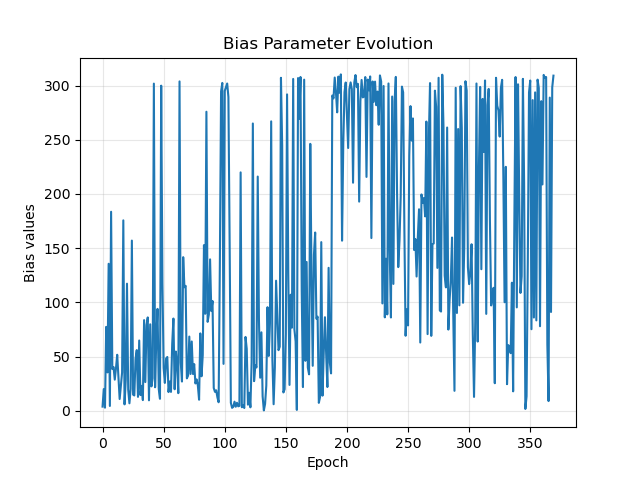
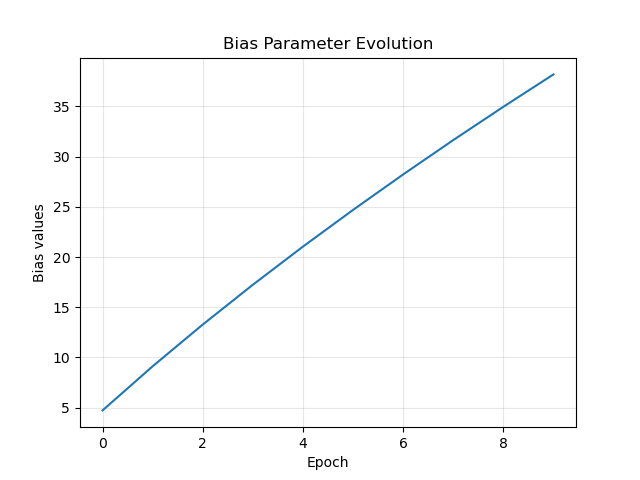
fix 바이어스 그래프가 이상하게 나오는 현상
바이어스 평균을 출력하는 그래프로 바꿈

diff --git a/benchmark/test/train_msfr.py b/benchmark/test/train_msfr.py
@@ -106,7 +106,7 @@ def main():
 
     optimizer = torch.optim.Adam(model.parameters(), lr=2e-2)
     scheduler = LambdaLR(optimizer, lr_lambda=lr_lambda) # lr 스케줄러
-    # loss_fn = nn.HuberLoss() # 휴버 고민해봐야함 (개인적인 경험으로 mse, mae보다 낮다고 봄)
+    # loss_fn = nn.HuberLoss() # 휴버 고민해봐야함 (개인적인 경험으로 mse, mae보다 낮다고 봄) -> 써봤는데 mse가 나음
     loss_fn = nn.MSELoss()
 
     cycle_hist = []          # [(day, week, year), ...]
@@ -122,7 +122,7 @@ def main():
     # 에폭 50, lr 스케쥴러 off, adam 2e-2 조합의 성능 비교 결과 0.01의 차이도 없이 똑같음
     # 지금 상황에선 에폭 50, lr 스케쥴러 off, adam 2e-2 조합이 좋은거 같음
     # 아래 코드는 에폭 70, lr 스케쥴러 on, adam 2e-2 조합
-    epochs = 70
+    epochs = 10
     for epoch in range(1, epochs + 1):
         model.train()
         total_loss = 0.0
@@ -135,12 +135,12 @@ def main():
             total_loss += loss.item() * xb.size(0)
         train_mse = total_loss / X_tr.size(0)
         train_mse_hist.append(train_mse)
-
         scheduler.step() # 에폭 끝날 때마다 lr 스케줄러 스텝 호출
 
+        # 주기 그래프용
         cyc = model.msfr.cycle.detach().cpu().numpy()   # (3,)
         cycle_hist.append(cyc)
-        train_loss = total_loss / X_tr.size(0)
+        # train_loss = total_loss / X_tr.size(0)
 
         model.eval()
         with torch.no_grad():
@@ -151,9 +151,10 @@ def main():
             val_loss = val_total / X_val.size(0)
             val_mse = val_loss
             val_mse_hist.append(val_mse)
-        # 에폭 루프의 train/val 출력 바로 위에 추가
-        b = model.msfr.bias.detach().cpu()
-        bias_hist = b.numpy().copy()
+
+        # 바이어스 그래프용
+        b = model.msfr.bias.detach().cpu().numpy()
+        bias_hist.append(b.mean())
 
         print(f"[Epoch {epoch:02d}] bias mean = {b.mean():.3f}, "f"min = {b.min():.3f}, max = {b.max():.3f}")
         print(f"lr = {scheduler.get_last_lr()[0]:.6f}")
@@ -197,7 +198,7 @@ def main():
     plt.plot(bias_hist)
     plt.xlabel("Epoch")
     plt.ylabel("Bias values")
-    plt.title("Bias Parameter Evolution")
+    plt.title("Bias Parameter Evolution (mean)")
     plt.grid(True, alpha=0.3)
 
     fig1.savefig("msfr_cycle_evolution.png")
@@ -206,11 +207,11 @@ def main():
     fig4.savefig("msfr_bias_evolution.png")
 
     # 체크포인트 저장 (옵션)
-    # if args.save_ckpt is not None:
-    #     ckpt_path = os.path.abspath(args.save_ckpt)
-    #     os.makedirs(os.path.dirname(ckpt_path), exist_ok=True)
-    #     torch.save(model.state_dict(), ckpt_path)
-    #     print(f"checkpoint saved to: {ckpt_path}")
+    if args.save_ckpt is not None:
+        ckpt_path = os.path.abspath(args.save_ckpt)
+        os.makedirs(os.path.dirname(ckpt_path), exist_ok=True)
+        torch.save(model.state_dict(), ckpt_path)
+        print(f"checkpoint saved to: {ckpt_path}")
 
 if __name__ == "__main__":
     main()

diff --git a/benchmark/test/diagnose.py b/benchmark/test/diagnose.py
@@ -12,7 +12,6 @@ from benchmark.test.train_msfr import load_dataset, train_val_split, TestModel
 비교 모델: MSFR (Multi-Seasonal Fourier Regression), 단순 평균 베이스라인, 계절성 나이브 베이스라인
 데이터셋: LD2011_2014_converted.csv (15분 단위 전력 소비량 데이터)
 평가 메트릭: RMSE, MAE -> huber 
-
 """
 
 CSV_PATH = "benchmark/test/LD2011_2014_converted.csv"
@@ -74,7 +73,6 @@ def train_model(X_tr: torch.Tensor, y_tr: torch.Tensor, input_dim: int, output_d
             optimizer.step()
 
     return model
-
 
 def main():
     parser = argparse.ArgumentParser()

diff --git a/msfr/core.py b/msfr/core.py
@@ -50,4 +50,3 @@ class MSFR(nn.Module):
 
         #TODO: 추세 항 추가 구현
         return features @ self.weight.T + self.bias
-    
